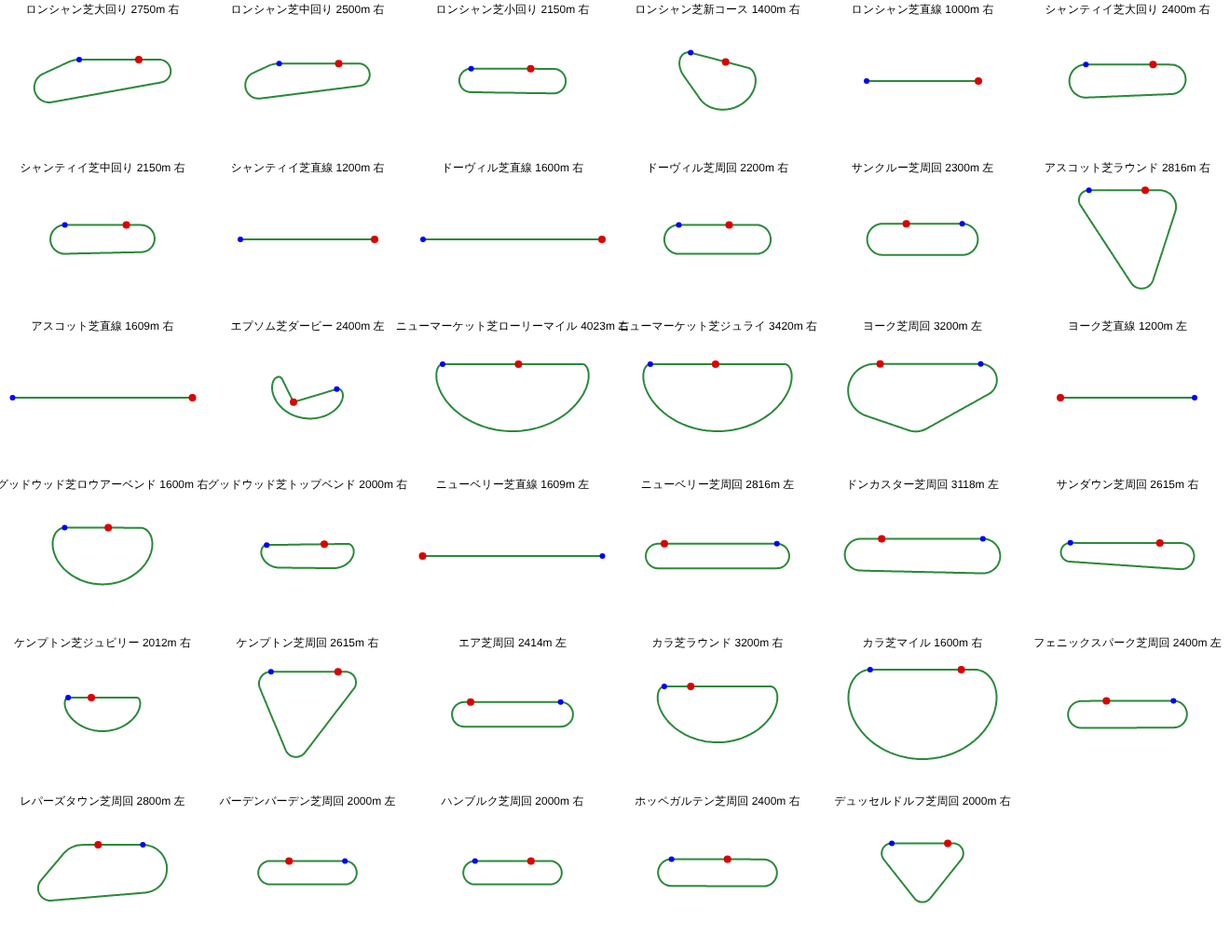
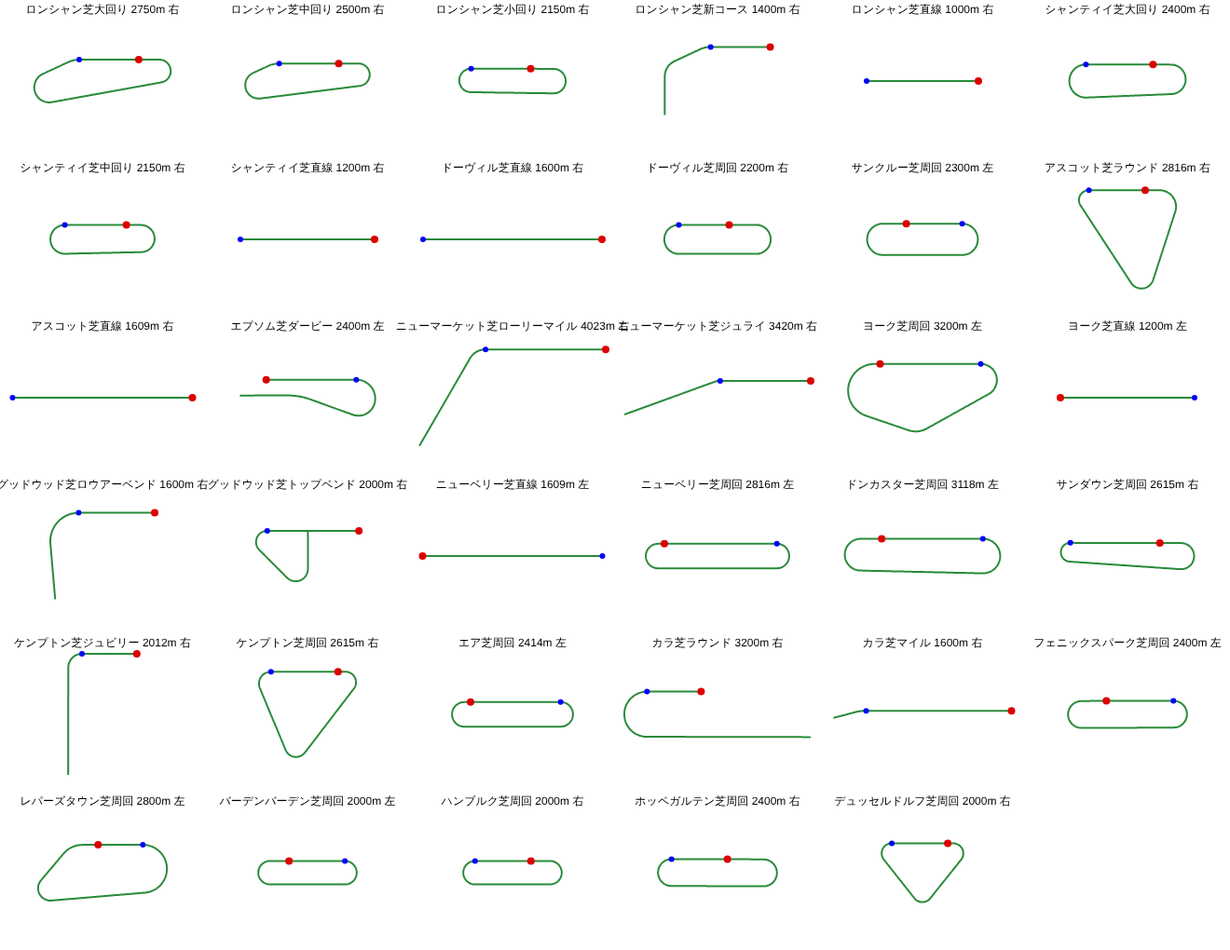
コーナーの半径の読み方を、取り込まれた track.js（角度に沿って直線的に変わる）に戻して全部の形を閉じ直す
親の 30f5e05 を merge したうえで、data/layouts.js とテストを、長さ＝角度×(入口＋出口)/2 の読み方にそろえる。閉じ方の誤差は最大0.04%。
周回しない回り（open）が開いた形で描かれるようになったので、コース図を描き直す。

Claude-Session: https://claude.ai/code/session_019FGFLkgxT7AQ3ZwJ6QJG3S

diff --git a/data/layouts.js b/data/layouts.js
@@ -5,7 +5,7 @@
 //   use：その回りを使うレースの距離（m）。同じ馬場の中で回りどうし重ならない
 //   segs：ゴール板から「走る向きと逆」にたどった順。最初はゴールから最後のコーナーの出口までの直線、最後は1コーナーの入口からゴールまで
 //     ['S', 長さ]：直線　['C', 入口の半径, 出口の半径, 曲がる角度(度), 番号]：コーナー（入口・出口は走る向きで見たもの。番号 3＝3〜4コーナー、1＝1〜2コーナー。負の角度は逆向きの曲がり）
-//     曲がり（1/半径）は長さに沿って入口から出口へ直線的に変わる（長さ＝角度÷((1/入口＋1/出口)/2)。js/core/track.js の fromLayout と同じ）。同じ値なら円、入口が大きければスパイラルカーブ
+//     半径は角度に沿って入口から出口へ直線的に変わる（長さ＝角度×(入口＋出口)/2。js/core/track.js の fromLayout と同じ）。同じ値なら円、入口が大きければスパイラルカーブ
 //   elev：[ゴールまでの残り(m), 高さ(m)]。残り0から lap まで。いちばん低い所が0。点の間は直線でつなぐ
 //   src：確かめた出典　note：特徴　approx：出典で細かく分からない所を、分かる数に合わせて作ったもの
 // JRA の10場：1周・直線・高低差・使う距離は JRA のコース紹介の表、高さは同じページの高低断面図から読んだ（表の高低差とおよそ0.1〜0.2m で合う）。
@@ -34,14 +34,14 @@
     '函館': {
       turf: [
         { id: '周回', lap: 1626.6, straight: 262.1, use: [1000, 1200, 1700, 1800, 2000, 2400, 2600],
-          segs: [['S', 262.1], ['C', 154.8, 134.6, 179.6, 3], ['S', 352.7], ['C', 145.2, 145.2, 180.4, 1], ['S', 103.4]],
+          segs: [['S', 262.1], ['C', 154, 133.9, 179.6, 3], ['S', 352.7], ['C', 145.2, 145.2, 180.4, 1], ['S', 103.4]],
           elev: [[0, 2.3], [116, 2.3], [126, 2.5], [293, 3.4], [363, 3.6], [466, 3.6], [795, 1.5], [941, 1], [1158, 0], [1204, 0], [1410, 0.6], [1580, 2.2], [1626.6, 2.3]],
           src: ['https://www.jra.go.jp/facilities/race/hakodate/course/index.html'],
           note: '3〜4コーナーに小高い丘。直線は全場で最も短い。3、4コーナーはスパイラルカーブ', approx: true },
       ],
       dirt: [
         { id: '周回', lap: 1475.8, straight: 260.3, use: [1000, 1700, 2400],
-          segs: [['S', 260.3], ['C', 130.6, 113.6, 181.1, 3], ['S', 356.5], ['C', 117.8, 117.8, 178.9, 1], ['S', 107.1]],
+          segs: [['S', 260.3], ['C', 129.9, 113, 181.1, 3], ['S', 356.5], ['C', 117.9, 117.9, 178.9, 1], ['S', 107.1]],
           elev: [[0, 2.2], [97, 2.2], [324, 3.5], [420, 3.5], [587, 2.4], [635, 2.1], [714, 1.6], [919, 1], [1016, 0.5], [1031, 0.2], [1068, 0.2], [1086, 0], [1125, 0.2], [1176, 0.2], [1192, 0.5], [1255, 0.6], [1443, 2.2], [1475.8, 2.2]],
           src: ['https://www.jra.go.jp/facilities/race/hakodate/course/index.html'],
           note: '3〜4コーナーに小高い丘。3、4コーナーはスパイラルカーブ', approx: true },
@@ -50,14 +50,14 @@
     '福島': {
       turf: [
         { id: '周回', lap: 1600, straight: 292, use: [1000, 1200, 1700, 1800, 2000, 2400, 2600],
-          segs: [['S', 292], ['C', 176.6, 117.7, 183.2, 3], ['S', 355.9], ['C', 129.5, 129.5, 176.8, 1], ['S', 100.7]],
+          segs: [['S', 292], ['C', 169.3, 112.9, 183.5, 3], ['S', 355.7], ['C', 129.8, 129.8, 176.5, 1], ['S', 100.7]],
           elev: [[0, 1.8], [52, 1.8], [160, 0.7], [190, 0.7], [412, 2.1], [700, 2.1], [906, 1.8], [926, 1.7], [1027, 0.3], [1220, 0], [1296, 0], [1564, 1.8], [1600, 1.8]],
           src: ['https://www.jra.go.jp/facilities/race/fukushima/course/index.html'],
           note: '1周に2回の上り下り。ゴール前に緩い上り（1.2m）。3、4コーナーはスパイラルカーブ', approx: true },
       ],
       dirt: [
         { id: '周回', lap: 1444.6, straight: 295.7, use: [1000, 1150, 1700, 2400],
-          segs: [['S', 295.7], ['C', 142.4, 95.9, 179.4, 3], ['S', 346.6], ['C', 115.6, 115.6, 180.6, 1], ['S', 79.2]],
+          segs: [['S', 295.7], ['C', 136.8, 92.2, 179.6, 3], ['S', 346.5], ['C', 115.7, 115.7, 180.4, 1], ['S', 79.2]],
           elev: [[0, 2.2], [47, 2.1], [248, 1.2], [278, 1.2], [363, 1.9], [647, 1.8], [777, 1.4], [942, 0.5], [1001, 0.4], [1061, 0.2], [1093, 0], [1152, 0.2], [1167, 0.5], [1196, 0.6], [1421, 2.1], [1444.6, 2.2]],
           src: ['https://www.jra.go.jp/facilities/race/fukushima/course/index.html'],
           note: '1周に2回の上り下り。3、4コーナーはスパイラルカーブ', approx: true },
@@ -66,12 +66,12 @@
     '新潟': {
       turf: [
         { id: '外', lap: 2223, straight: 658.7, use: [1600, 1800, 2000, 3000, 3200],
-          segs: [['S', 658.7], ['C', 138.4, 120.4, 180, 3], ['S', 701.2], ['C', 128.8, 128.8, 180, 1], ['S', 54]],
+          segs: [['S', 658.7], ['C', 137.8, 119.8, 180, 3], ['S', 701.2], ['C', 128.8, 128.8, 180, 1], ['S', 54]],
           elev: [[0, 0], [340, 0], [436, 0.5], [585, 0.3], [667, 0.7], [762, 0.6], [994, 2.2], [1016, 2.2], [1030, 2], [1053, 2], [1338, 0.6], [1697, 0.6], [1769, 0.7], [1919, 0.3], [2091, 0.3], [2150, 0.2], [2173, 0], [2223, 0]],
           src: ['https://www.jra.go.jp/facilities/race/niigata/course/index.html'],
           note: '日本最長の直線（658.7m）。3コーナーから4コーナーへ緩い下り。スパイラルカーブ', approx: true },
         { id: '内', lap: 1623, straight: 358.7, use: [1200, 1400, 2200, 2400],
-          segs: [['S', 358.7], ['C', 138.4, 120.4, 180, 3], ['S', 401.2], ['C', 128.7, 128.7, 180, 1], ['S', 54]],
+          segs: [['S', 358.7], ['C', 137.8, 119.8, 180, 3], ['S', 401.2], ['C', 128.8, 128.8, 180, 1], ['S', 54]],
           elev: [[0, 0.1], [338, 0.1], [354, 0.3], [381, 0.3], [397, 0.1], [444, 0], [659, 0.4], [699, 0.6], [1096, 0.6], [1146, 0.8], [1315, 0.4], [1484, 0.4], [1547, 0.3], [1570, 0.1], [1623, 0.1]],
           src: ['https://www.jra.go.jp/facilities/race/niigata/course/index.html'],
           note: 'ほぼ平坦。3、4コーナーはスパイラルカーブ', approx: true },
@@ -83,7 +83,7 @@
       ],
       dirt: [
         { id: '周回', lap: 1472.5, straight: 353.9, use: [1000, 1200, 1700, 1800, 2500],
-          segs: [['S', 353.9], ['C', 111.9, 97.3, 180, 3], ['S', 405.1], ['C', 103.8, 103.8, 180, 1], ['S', 60.4]],
+          segs: [['S', 353.9], ['C', 111.3, 96.8, 180.1, 3], ['S', 405], ['C', 103.8, 103.8, 179.9, 1], ['S', 60.4]],
           elev: [[0, 0], [599, 0], [614, 0.2], [702, 0.5], [900, 0.5], [949, 0.4], [1069, 0.5], [1141, 0.2], [1153, 0], [1472.5, 0]],
           src: ['https://www.jra.go.jp/facilities/race/niigata/course/index.html'],
           note: 'ほぼ平坦。3、4コーナーはスパイラルカーブ', approx: true },
@@ -129,14 +129,14 @@
     '中京': {
       turf: [
         { id: '周回', lap: 1705.9, straight: 412.5, use: [1200, 1300, 1400, 1600, 1700, 1800, 2000, 2200, 2400, 2800, 3000],
-          segs: [['S', 412.5], ['C', 160.5, 128.4, 184.6, 3], ['S', 421.5], ['C', 124.9, 124.9, 175.4, 1], ['S', 30]],
+          segs: [['S', 412.5], ['C', 158.4, 126.7, 184.7, 3], ['S', 421.5], ['C', 125, 125, 175.3, 1], ['S', 30]],
           elev: [[0, 2.3], [241, 2], [338, 0], [956, 3.1], [1061, 3.4], [1106, 3.4], [1479, 2.4], [1705.9, 2.3]],
           src: ['https://www.jra.go.jp/facilities/race/chukyo/course/index.html'],
           note: '直線に向いてすぐの急坂（約2m・勾配約2%）。3、4コーナーはスパイラルカーブ', approx: true },
       ],
       dirt: [
         { id: '周回', lap: 1530, straight: 410.7, use: [1200, 1400, 1700, 1800, 1900, 2000, 2200, 2300, 2500],
-          segs: [['S', 410.7], ['C', 131.5, 105.2, 185, 3], ['S', 418.2], ['C', 97.9, 97.9, 175, 1], ['S', 24.7]],
+          segs: [['S', 410.7], ['C', 129.8, 103.8, 185.1, 3], ['S', 418.2], ['C', 97.9, 97.9, 174.9, 1], ['S', 24.7]],
           elev: [[0, 2.1], [54, 2.2], [218, 1.8], [310, 0.5], [370, 0], [392, 0], [970, 3.3], [1094, 3.1], [1157, 2.6], [1280, 2.1], [1530, 2.1]],
           src: ['https://www.jra.go.jp/facilities/race/chukyo/course/index.html'],
           note: '直線に向いてすぐの急坂。3、4コーナーはスパイラルカーブ', approx: true },
@@ -187,7 +187,7 @@
     '小倉': {
       turf: [
         { id: '周回', lap: 1615.1, straight: 293, use: [1000, 1200, 1700, 1800, 2000, 2600],
-          segs: [['S', 293], ['C', 148.9, 129.5, 179.6, 3], ['S', 364.2], ['C', 139.8, 139.8, 180.4, 1], ['S', 83.4]],
+          segs: [['S', 293], ['C', 148.2, 128.9, 179.6, 3], ['S', 364.2], ['C', 139.8, 139.8, 180.4, 1], ['S', 83.4]],
           elev: [[0, 0], [405, 0], [422, 0.2], [670, 1.3], [749, 1.1], [978, 1.1], [1269, 3.2], [1334, 2.7], [1599, 0.2], [1615.1, 0]],
           src: ['https://www.jra.go.jp/facilities/race/kokura/course/index.html'],
           note: '2コーナーに小高い丘。直線は平坦。3、4コーナーはスパイラルカーブ', approx: true },
@@ -227,12 +227,12 @@
     '船橋': {
       dirt: [
         { id: '外', lap: 1400, straight: 308, use: [1000, 1200, 1500, 1600, 1700, 1800, 2000, 2200, 2400],
-          segs: [['S', 308], ['C', 119.5, 97.8, 180, 3], ['S', 362], ['C', 119.5, 97.8, 180, 1], ['S', 54]],
+          segs: [['S', 308], ['C', 118.3, 96.8, 180, 3], ['S', 362], ['C', 118.3, 96.8, 180, 1], ['S', 54]],
           elev: [[0, 0], [1400, 0]],
           src: ['https://www.keiba.go.jp/guide/course/', 'https://ja.wikipedia.org/wiki/%E8%88%B9%E6%A9%8B%E7%AB%B6%E9%A6%AC%E5%A0%B4'],
           note: 'スパイラルカーブ（コーナーの内外に高低差）。平坦', approx: true },
         { id: '内', lap: 1250, straight: 308, use: [1400],
-          segs: [['S', 308], ['C', 93, 76.1, 180, 3], ['S', 362], ['C', 93, 76.1, 180, 1], ['S', 54]],
+          segs: [['S', 308], ['C', 92.1, 75.3, 180, 3], ['S', 362], ['C', 92.1, 75.3, 180, 1], ['S', 54]],
           elev: [[0, 0], [1250, 0]],
           src: ['https://www.keiba.go.jp/guide/course/', 'https://ja.wikipedia.org/wiki/%E8%88%B9%E6%A9%8B%E7%AB%B6%E9%A6%AC%E5%A0%B4'],
           note: '内コース。いまはレースで使っていない', approx: true },
@@ -266,7 +266,7 @@
     '名古屋': {
       dirt: [
         { id: '周回', lap: 1180, straight: 240, use: [900, 920, 1400, 1500, 1700, 1900, 2000, 2100],
-          segs: [['S', 240], ['C', 107.5, 84.5, 179.9, 3], ['S', 285.6], ['C', 94.6, 94.6, 180.1, 1], ['S', 60]],
+          segs: [['S', 240], ['C', 105.9, 83.3, 180, 3], ['S', 285.6], ['C', 94.6, 94.6, 180, 1], ['S', 60]],
           elev: [[0, 0], [164, 0], [388, 0.3], [607, 0], [752, 0], [831, 0.2], [912, 0], [1180, 0]],
           src: ['https://www.keiba.go.jp/guide/course/', 'https://ja.wikipedia.org/wiki/%E5%90%8D%E5%8F%A4%E5%B1%8B%E7%AB%B6%E9%A6%AC%E5%A0%B4', 'https://www.nagoyakeiba.com/news/5c50174720d00f5e58bb8d04b06dc58f.pdf'],
           note: '2022年に弥富へ移ったいまのコース。3〜4コーナーはスパイラルカーブ。ほぼ平坦', approx: true },
@@ -307,7 +307,7 @@
     '浦和': {
       dirt: [
         { id: '周回', lap: 1200, straight: 220, use: [800, 1300, 1400, 1500, 1600, 1900, 2000],
-          segs: [['S', 220], ['C', 108.3, 88.6, 179.9, 3], ['S', 287.6], ['C', 97.4, 97.4, 180.1, 1], ['S', 80]],
+          segs: [['S', 220], ['C', 107.2, 87.7, 180, 3], ['S', 287.6], ['C', 97.5, 97.5, 180, 1], ['S', 80]],
           elev: [[0, 0], [1200, 0]],
           src: ['https://www.keiba.go.jp/guide/course/', 'https://ja.wikipedia.org/wiki/%E6%B5%A6%E5%92%8C%E7%AB%B6%E9%A6%AC%E5%A0%B4', 'https://www.urawa-keiba.jp/guide/course_paddock/'],
           note: '小回り。3コーナーはスパイラルカーブ。平坦', approx: true },
@@ -708,7 +708,7 @@
     'ウッドバイン': {
       turf: [
         { id: 'EPテイラー', lap: 2413.5, straight: 438.9, use: [1600, 2000, 2400],
-          segs: [['S', 438.9], ['C', 222.1, 133.4, 184, 3], ['S', 746], ['C', 102.1, 102.1, 150, 2], ['S', 142.5], ['C', 184, 184, 26, 1], ['S', 200]],
+          segs: [['S', 438.9], ['C', 207.8, 124.7, 184.3, 3], ['S', 746.5], ['C', 102.1, 102.1, 150, 2], ['S', 142.5], ['C', 186.4, 186.4, 25.7, 1], ['S', 200]],
           elev: [[0, 0], [438.9, 0], [941.4, 0.8], [1741.4, 0.8], [1992.5, 0], [2413.5, 0]],
           src: ['https://en.wikipedia.org/wiki/Woodbine_Racetrack', 'https://www.drf.com/sites/default/files/US%20Track%20Dimensions%20List%20-%20May%202015.pdf', 'https://www.jairs.jp/contents/courses/can.html', 'https://ja.wikipedia.org/wiki/%E3%82%A6%E3%83%83%E3%83%89%E3%83%90%E3%82%A4%E3%83%B3%E7%AB%B6%E9%A6%AC%E5%A0%B4'],
           note: '左回りの3コーナーの芝（30度→短い直線→150度）。北米最長の直線1440フィート。向正面がホーム直線より0.8〜0.9m高い', approx: true },
@@ -749,7 +749,7 @@
     'フレミントン': {
       turf: [
         { id: '周回', lap: 2312, straight: 450, use: [3200],
-          segs: [['S', 450], ['C', 296.8, 229.3, 196.9, 3], ['S', 413.5], ['C', 192.3, 192.3, 163.1, 1], ['S', 12]],
+          segs: [['S', 450], ['C', 291.6, 225.3, 197.1, 3], ['S', 413.5], ['C', 192.5, 192.5, 162.9, 1], ['S', 12]],
           elev: [[0, 0], [2312, 0]],
           src: ['https://www.jra.go.jp/keiba/overseas/country/australia/flemington.html', 'https://www.jairs.jp/contents/courses/au.html', 'https://en.wikipedia.org/wiki/Flemington_Racecourse'],
           note: '洋梨型。3〜4コーナーのゆったりしたカーブ。ほぼ平坦。3200mはストレート6の上から発走し最初のコーナーまで約900m', approx: true },

diff --git a/docs/COURSES.md b/docs/COURSES.md
@@ -36,28 +36,28 @@
 |---|---|---|---|---|---|---|---|---|---|
 | 札幌 | 芝 | 周回 | 1640.9 | 266.1 | 0.7 | 165.1・158.1 | 1000・1200・1500・1800・2000・2600 | ほぼ平坦。4つのコーナーが大きく丸い（目安あり） | [1](https://www.jra.go.jp/facilities/race/sapporo/course/index.html) |
 | 札幌 | ダ | 周回 | 1487 | 264.3 | 0.9 | 140.9・140.7 | 1000・1200・1700・2000・2400 | ほぼ平坦。丸いコース（目安あり） | [1](https://www.jra.go.jp/facilities/race/sapporo/course/index.html) |
-| 函館 | 芝 | 周回 | 1626.6 | 262.1 | 3.6 | 154.8→134.6・145.2 | 1000・1200・1700・1800・2000・2400・2600 | 3〜4コーナーに小高い丘。直線は全場で最も短い。3、4コーナーはスパイラルカーブ（目安あり） | [1](https://www.jra.go.jp/facilities/race/hakodate/course/index.html) |
-| 函館 | ダ | 周回 | 1475.8 | 260.3 | 3.5 | 130.6→113.6・117.8 | 1000・1700・2400 | 3〜4コーナーに小高い丘。3、4コーナーはスパイラルカーブ（目安あり） | [1](https://www.jra.go.jp/facilities/race/hakodate/course/index.html) |
-| 福島 | 芝 | 周回 | 1600 | 292 | 2.1 | 176.6→117.7・129.5 | 1000・1200・1700・1800・2000・2400・2600 | 1周に2回の上り下り。ゴール前に緩い上り（1.2m）。3、4コーナーはスパイラルカーブ（目安あり） | [1](https://www.jra.go.jp/facilities/race/fukushima/course/index.html) |
-| 福島 | ダ | 周回 | 1444.6 | 295.7 | 2.2 | 142.4→95.9・115.6 | 1000・1150・1700・2400 | 1周に2回の上り下り。3、4コーナーはスパイラルカーブ（目安あり） | [1](https://www.jra.go.jp/facilities/race/fukushima/course/index.html) |
-| 新潟 | 芝 | 外 | 2223 | 658.7 | 2.2 | 138.4→120.4・128.8 | 1600・1800・2000・3000・3200 | 日本最長の直線（658.7m）。3コーナーから4コーナーへ緩い下り。スパイラルカーブ（目安あり） | [1](https://www.jra.go.jp/facilities/race/niigata/course/index.html) |
-| 新潟 | 芝 | 内 | 1623 | 358.7 | 0.8 | 138.4→120.4・128.7 | 1200・1400・2200・2400 | ほぼ平坦。3、4コーナーはスパイラルカーブ（目安あり） | [1](https://www.jra.go.jp/facilities/race/niigata/course/index.html) |
+| 函館 | 芝 | 周回 | 1626.6 | 262.1 | 3.6 | 154→133.9・145.2 | 1000・1200・1700・1800・2000・2400・2600 | 3〜4コーナーに小高い丘。直線は全場で最も短い。3、4コーナーはスパイラルカーブ（目安あり） | [1](https://www.jra.go.jp/facilities/race/hakodate/course/index.html) |
+| 函館 | ダ | 周回 | 1475.8 | 260.3 | 3.5 | 129.9→113・117.9 | 1000・1700・2400 | 3〜4コーナーに小高い丘。3、4コーナーはスパイラルカーブ（目安あり） | [1](https://www.jra.go.jp/facilities/race/hakodate/course/index.html) |
+| 福島 | 芝 | 周回 | 1600 | 292 | 2.1 | 169.3→112.9・129.8 | 1000・1200・1700・1800・2000・2400・2600 | 1周に2回の上り下り。ゴール前に緩い上り（1.2m）。3、4コーナーはスパイラルカーブ（目安あり） | [1](https://www.jra.go.jp/facilities/race/fukushima/course/index.html) |
+| 福島 | ダ | 周回 | 1444.6 | 295.7 | 2.2 | 136.8→92.2・115.7 | 1000・1150・1700・2400 | 1周に2回の上り下り。3、4コーナーはスパイラルカーブ（目安あり） | [1](https://www.jra.go.jp/facilities/race/fukushima/course/index.html) |
+| 新潟 | 芝 | 外 | 2223 | 658.7 | 2.2 | 137.8→119.8・128.8 | 1600・1800・2000・3000・3200 | 日本最長の直線（658.7m）。3コーナーから4コーナーへ緩い下り。スパイラルカーブ（目安あり） | [1](https://www.jra.go.jp/facilities/race/niigata/course/index.html) |
+| 新潟 | 芝 | 内 | 1623 | 358.7 | 0.8 | 137.8→119.8・128.8 | 1200・1400・2200・2400 | ほぼ平坦。3、4コーナーはスパイラルカーブ（目安あり） | [1](https://www.jra.go.jp/facilities/race/niigata/course/index.html) |
 | 新潟 | 芝 | 直線 | 1000 | 1000 | 1.2 | — | 1000 | 直線1000m（直千）。日本で唯一の直線コース（目安あり） | [1](https://www.jra.go.jp/facilities/race/niigata/course/index.html) |
-| 新潟 | ダ | 周回 | 1472.5 | 353.9 | 0.5 | 111.9→97.3・103.8 | 1000・1200・1700・1800・2500 | ほぼ平坦。3、4コーナーはスパイラルカーブ（目安あり） | [1](https://www.jra.go.jp/facilities/race/niigata/course/index.html) |
+| 新潟 | ダ | 周回 | 1472.5 | 353.9 | 0.5 | 111.3→96.8・103.8 | 1000・1200・1700・1800・2500 | ほぼ平坦。3、4コーナーはスパイラルカーブ（目安あり） | [1](https://www.jra.go.jp/facilities/race/niigata/course/index.html) |
 | 東京 | 芝 | 周回 | 2083.1 | 525.9 | 2.7 | 138.5・140.8 | 1400・1600・1800・2000・2200・2300・2400・2500・2600・3200・3400 | 直線の坂（残り460〜300m・高低差2m）と3コーナー手前の上り坂。コーナーはゆったり（目安あり） | [1](https://www.jra.go.jp/facilities/race/tokyo/course/index.html) |
 | 東京 | ダ | 周回 | 1899 | 501.6 | 2.7 | 125.1・125.9 | 1200・1300・1400・1600・1700・2100・2300・2400 | 日本最大のダート。直線の坂（高低差2.4m）と向正面の坂（目安あり） | [1](https://www.jra.go.jp/facilities/race/tokyo/course/index.html) |
 | 中山 | 芝 | 内 | 1667.1 | 310 | 5.3 | 143.2・142 | 1800・2000・2500・3200・3600 | ゴール前の急坂（残り180〜70m・2.2m）。2コーナーの手前が頂上で高低差5.3m。2・3コーナーがきつい小回り（目安あり） | [1](https://www.jra.go.jp/facilities/race/nakayama/course/index.html) |
 | 中山 | 芝 | 外 | 1839.7 | 310 | 5.2 | 165.8・169.5 | 1200・1600・2200・2400・2600・4000 | ゴール前の急坂（残り180〜70m・2.2m）。2コーナーから長い下り。高低差5.3m（目安あり） | [1](https://www.jra.go.jp/facilities/race/nakayama/course/index.html) |
 | 中山 | ダ | 周回 | 1493 | 308 | 4.3 | 118.8・117.7 | 1000・1200・1700・1800・2400・2500 | ゴール前の急坂。高低差4.5m（目安あり） | [1](https://www.jra.go.jp/facilities/race/nakayama/course/index.html) |
-| 中京 | 芝 | 周回 | 1705.9 | 412.5 | 3.4 | 160.5→128.4・124.9 | 1200・1300・1400・1600・1700・1800・2000・2200・2400・2800・3000 | 直線に向いてすぐの急坂（約2m・勾配約2%）。3、4コーナーはスパイラルカーブ（目安あり） | [1](https://www.jra.go.jp/facilities/race/chukyo/course/index.html) |
-| 中京 | ダ | 周回 | 1530 | 410.7 | 3.3 | 131.5→105.2・97.9 | 1200・1400・1700・1800・1900・2000・2200・2300・2500 | 直線に向いてすぐの急坂。3、4コーナーはスパイラルカーブ（目安あり） | [1](https://www.jra.go.jp/facilities/race/chukyo/course/index.html) |
+| 中京 | 芝 | 周回 | 1705.9 | 412.5 | 3.4 | 158.4→126.7・125 | 1200・1300・1400・1600・1700・1800・2000・2200・2400・2800・3000 | 直線に向いてすぐの急坂（約2m・勾配約2%）。3、4コーナーはスパイラルカーブ（目安あり） | [1](https://www.jra.go.jp/facilities/race/chukyo/course/index.html) |
+| 中京 | ダ | 周回 | 1530 | 410.7 | 3.3 | 129.8→103.8・97.9 | 1200・1400・1700・1800・1900・2000・2200・2300・2500 | 直線に向いてすぐの急坂。3、4コーナーはスパイラルカーブ（目安あり） | [1](https://www.jra.go.jp/facilities/race/chukyo/course/index.html) |
 | 京都 | 芝 | 外 | 1894.3 | 403.7 | 4.2 | 156.5・134.1 | 1400・1600・1800・1900・2200・2400・3000・3200 | 3コーナーの坂（淀の坂）。向正面の半ばから上り、4コーナーへ一気に下る。高低差4.3m（目安あり） | [1](https://www.jra.go.jp/facilities/race/kyoto/course/index.html) |
 | 京都 | 芝 | 内 | 1782.8 | 328.4 | 3.2 | 165.9・136.4 | 1100・1200・2000 | 3コーナーの坂（高低差3.1m）。3、4コーナーがきつい（目安あり） | [1](https://www.jra.go.jp/facilities/race/kyoto/course/index.html) |
 | 京都 | ダ | 周回 | 1607.6 | 329.1 | 2.9 | 139.8・103.6 | 1000・1100・1200・1400・1800・1900・2600 | 3コーナーの丘から4コーナーへ下り、平坦な直線（目安あり） | [1](https://www.jra.go.jp/facilities/race/kyoto/course/index.html) |
 | 阪神 | 芝 | 外 | 2089 | 473.6 | 2.1 | 200.9・135 | 1600・1800・2400・2600 | 長い向正面と大きな3、4コーナー。ゴール前の急坂（1.8m・勾配1.5%）（目安あり） | [1](https://www.jra.go.jp/facilities/race/hanshin/course/index.html) |
 | 阪神 | 芝 | 内 | 1689 | 356.5 | 1.8 | 157.5・129.8 | 1200・1400・1850・1900・2000・2200・2500・3000・3100・3200 | ゴール前の急坂（1.8m・勾配1.5%）（目安あり） | [1](https://www.jra.go.jp/facilities/race/hanshin/course/index.html) |
 | 阪神 | ダ | 周回 | 1517.6 | 352.7 | 1.3 | 145.3・94.5 | 1200・1400・1800・2000・2600 | 残り200mに上り坂（1.6m）（目安あり） | [1](https://www.jra.go.jp/facilities/race/hanshin/course/index.html) |
-| 小倉 | 芝 | 周回 | 1615.1 | 293 | 3.2 | 148.9→129.5・139.8 | 1000・1200・1700・1800・2000・2600 | 2コーナーに小高い丘。直線は平坦。3、4コーナーはスパイラルカーブ（目安あり） | [1](https://www.jra.go.jp/facilities/race/kokura/course/index.html) |
+| 小倉 | 芝 | 周回 | 1615.1 | 293 | 3.2 | 148.2→128.9・139.8 | 1000・1200・1700・1800・2000・2600 | 2コーナーに小高い丘。直線は平坦。3、4コーナーはスパイラルカーブ（目安あり） | [1](https://www.jra.go.jp/facilities/race/kokura/course/index.html) |
 | 小倉 | ダ | 周回 | 1445.4 | 291.3 | 2.9 | 108.5・106.9 | 1000・1700・2400 | 2コーナーに丘。残り400mから直線へ緩い上り（0.6m）（目安あり） | [1](https://www.jra.go.jp/facilities/race/kokura/course/index.html) |
 
 ## 地方
@@ -67,17 +67,17 @@
 | 大井 | ダ | 外 | 1600 | 386 | 0.0 | 99.9・99.9 | 1000・1190・1200・1400・1700・1800・2000・2400・2600・2800 | 外回り。地方でいちばん長い直線。平坦（目安あり） | [1](https://www.keiba.go.jp/guide/course/) [2](https://ja.wikipedia.org/wiki/%E5%A4%A7%E4%BA%95%E7%AB%B6%E9%A6%AC%E5%A0%B4) [3](https://ja.wikipedia.org/wiki/%E6%9D%B1%E4%BA%AC%E7%9B%83) |
 | 大井 | ダ | 内 | 1400 | 286 | 0.0 | 99.9・99.9 | 1500・1600 | 内回り（3〜4コーナーだけ内側を回る）。平坦（目安あり） | [1](https://www.keiba.go.jp/guide/course/) [2](https://ja.wikipedia.org/wiki/%E5%A4%A7%E4%BA%95%E7%AB%B6%E9%A6%AC%E5%A0%B4) |
 | 川崎 | ダ | 周回 | 1200 | 300 | 0.0 | 63.7・63.7 | 900・1400・1500・1600・2000・2100 | 小さく急なコーナー。平坦（目安あり） | [1](https://www.keiba.go.jp/guide/course/) [2](https://ja.wikipedia.org/wiki/%E5%B7%9D%E5%B4%8E%E7%AB%B6%E9%A6%AC%E5%A0%B4) |
-| 船橋 | ダ | 外 | 1400 | 308 | 0.0 | 119.5→97.8・119.5→97.8 | 1000・1200・1500・1600・1700・1800・2000・2200・2400 | スパイラルカーブ（コーナーの内外に高低差）。平坦（目安あり） | [1](https://www.keiba.go.jp/guide/course/) [2](https://ja.wikipedia.org/wiki/%E8%88%B9%E6%A9%8B%E7%AB%B6%E9%A6%AC%E5%A0%B4) |
-| 船橋 | ダ | 内 | 1250 | 308 | 0.0 | 93→76.1・93→76.1 | 1400 | 内コース。いまはレースで使っていない（目安あり） | [1](https://www.keiba.go.jp/guide/course/) [2](https://ja.wikipedia.org/wiki/%E8%88%B9%E6%A9%8B%E7%AB%B6%E9%A6%AC%E5%A0%B4) |
+| 船橋 | ダ | 外 | 1400 | 308 | 0.0 | 118.3→96.8・118.3→96.8 | 1000・1200・1500・1600・1700・1800・2000・2200・2400 | スパイラルカーブ（コーナーの内外に高低差）。平坦（目安あり） | [1](https://www.keiba.go.jp/guide/course/) [2](https://ja.wikipedia.org/wiki/%E8%88%B9%E6%A9%8B%E7%AB%B6%E9%A6%AC%E5%A0%B4) |
+| 船橋 | ダ | 内 | 1250 | 308 | 0.0 | 92.1→75.3・92.1→75.3 | 1400 | 内コース。いまはレースで使っていない（目安あり） | [1](https://www.keiba.go.jp/guide/course/) [2](https://ja.wikipedia.org/wiki/%E8%88%B9%E6%A9%8B%E7%AB%B6%E9%A6%AC%E5%A0%B4) |
 | 盛岡 | 芝 | 周回 | 1400 | 300 | 4.6 | 95.5・95.5 | 1000・1600・1700・2400 | 地方で唯一の芝コース（ダートの内側）。直線の上り坂。高低差4.6m | [1](https://www.keiba.go.jp/guide/course/) [2](https://ja.wikipedia.org/wiki/%E7%9B%9B%E5%B2%A1%E7%AB%B6%E9%A6%AC%E5%A0%B4) [3](https://www.iwatekeiba.or.jp/guide/moriokakeiba/oro_01) [4](https://www.iwatekeiba.or.jp/guide/moriokakeiba/oro_06) |
 | 盛岡 | ダ | 周回 | 1600 | 300 | 4.4 | 127.3・127.3 | 1000・1200・1400・1600・1800・2000・2500・2600 | 3コーナーが頂上で4コーナーへ下り、直線は上り坂。高低差4.4m | [1](https://www.keiba.go.jp/guide/course/) [2](https://ja.wikipedia.org/wiki/%E7%9B%9B%E5%B2%A1%E7%AB%B6%E9%A6%AC%E5%A0%B4) [3](https://www.iwatekeiba.or.jp/guide/moriokakeiba/oro_01) [4](https://www.iwatekeiba.or.jp/guide/moriokakeiba/oro_06) |
 | 園田 | ダ | 周回 | 1051 | 213 | 1.2 | 94・87 | 820・1230・1400・1700・1870・2400 | 小回り。向正面から3コーナーへ1.2mの上り。3〜4コーナーが1〜2コーナーより大きい（目安あり） | [1](https://www.keiba.go.jp/guide/course/) [2](https://ja.wikipedia.org/wiki/%E5%9C%92%E7%94%B0%E7%AB%B6%E9%A6%AC%E5%A0%B4) |
-| 名古屋 | ダ | 周回 | 1180 | 240 | 0.3 | 107.5→84.5・94.6 | 900・920・1400・1500・1700・1900・2000・2100 | 2022年に弥富へ移ったいまのコース。3〜4コーナーはスパイラルカーブ。ほぼ平坦（目安あり） | [1](https://www.keiba.go.jp/guide/course/) [2](https://ja.wikipedia.org/wiki/%E5%90%8D%E5%8F%A4%E5%B1%8B%E7%AB%B6%E9%A6%AC%E5%A0%B4) [3](https://www.nagoyakeiba.com/news/5c50174720d00f5e58bb8d04b06dc58f.pdf) |
+| 名古屋 | ダ | 周回 | 1180 | 240 | 0.3 | 105.9→83.3・94.6 | 900・920・1400・1500・1700・1900・2000・2100 | 2022年に弥富へ移ったいまのコース。3〜4コーナーはスパイラルカーブ。ほぼ平坦（目安あり） | [1](https://www.keiba.go.jp/guide/course/) [2](https://ja.wikipedia.org/wiki/%E5%90%8D%E5%8F%A4%E5%B1%8B%E7%AB%B6%E9%A6%AC%E5%A0%B4) [3](https://www.nagoyakeiba.com/news/5c50174720d00f5e58bb8d04b06dc58f.pdf) |
 | 門別 | ダ | 外 | 1600 | 330 | 0.0 | 127.3・127.3 | 1000・1100・1200・1700・1800・2000・2600 | 外回り。直線は大井に次ぐ長さで、カーブがゆるい（目安あり） | [1](https://www.keiba.go.jp/guide/course/) [2](https://ja.wikipedia.org/wiki/%E9%96%80%E5%88%A5%E7%AB%B6%E9%A6%AC%E5%A0%B4) |
 | 門別 | ダ | 内 | 1376 | 218 | 0.0 | 127.3・127.3 | 1500・1600 | 2015年にできた内回り（3コーナー手前から分かれる）（目安あり） | [1](https://www.keiba.go.jp/guide/course/) [2](https://ja.wikipedia.org/wiki/%E9%96%80%E5%88%A5%E7%AB%B6%E9%A6%AC%E5%A0%B4) |
 | 金沢 | ダ | 周回 | 1200 | 236 | 0.0 | 99.9・99.9 | 900・1300・1400・1500・1700・1900・2000・2100・2300・2600 | 4つのコーナーすべてにポケット（発走地点）がある。平坦（目安あり） | [1](https://www.keiba.go.jp/guide/course/) [2](https://ja.wikipedia.org/wiki/%E9%87%91%E6%B2%A2%E7%AB%B6%E9%A6%AC%E5%A0%B4) |
 | 佐賀 | ダ | 周回 | 1100 | 200 | 0.0 | 95.5・95.5 | 900・1300・1400・1750・1800・1860・2000・2400・2500 | 粒の大きい砂で力の要るダート。ほぼ平坦（目安あり） | [1](https://www.keiba.go.jp/guide/course/) [2](https://ja.wikipedia.org/wiki/%E4%BD%90%E8%B3%80%E7%AB%B6%E9%A6%AC%E5%A0%B4) [3](https://www.sagakeiba.net/raceinfo/course/) |
-| 浦和 | ダ | 周回 | 1200 | 220 | 0.0 | 108.3→88.6・97.4 | 800・1300・1400・1500・1600・1900・2000 | 小回り。3コーナーはスパイラルカーブ。平坦（目安あり） | [1](https://www.keiba.go.jp/guide/course/) [2](https://ja.wikipedia.org/wiki/%E6%B5%A6%E5%92%8C%E7%AB%B6%E9%A6%AC%E5%A0%B4) [3](https://www.urawa-keiba.jp/guide/course_paddock/) |
+| 浦和 | ダ | 周回 | 1200 | 220 | 0.0 | 107.2→87.7・97.5 | 800・1300・1400・1500・1600・1900・2000 | 小回り。3コーナーはスパイラルカーブ。平坦（目安あり） | [1](https://www.keiba.go.jp/guide/course/) [2](https://ja.wikipedia.org/wiki/%E6%B5%A6%E5%92%8C%E7%AB%B6%E9%A6%AC%E5%A0%B4) [3](https://www.urawa-keiba.jp/guide/course_paddock/) |
 | 笠松 | ダ | 周回 | 1100 | 201 | 0.0 | 99.3・99.3 | 800・1400・1580・1800・1900・2500 | 小回りでコーナーからの追い込みが難しい（目安あり） | [1](https://www.keiba.go.jp/guide/course/) [2](https://ja.wikipedia.org/wiki/%E7%AC%A0%E6%9D%BE%E7%AB%B6%E9%A6%AC%E5%A0%B4) [3](https://www.kasamatsu-keiba.com/courseinfo) |
 | 高知 | ダ | 周回 | 1100 | 200 | 0.0 | 109.5・93.6 | 800・1000・1300・1400・1600・1800・1900・2100・2400 | 1〜2コーナーが3〜4コーナーより小さい（きつい）（目安あり） | [1](https://www.keiba.go.jp/guide/course/) [2](https://ja.wikipedia.org/wiki/%E9%AB%98%E7%9F%A5%E7%AB%B6%E9%A6%AC%E5%A0%B4) |
 | 水沢 | ダ | 周回 | 1200 | 245 | 0.0 | 90.1・90.1 | 850・1300・1400・1600・1800・1900・2000・2500 | 平坦な小回り（目安あり） | [1](https://www.keiba.go.jp/guide/course/) [2](https://ja.wikipedia.org/wiki/%E6%B0%B4%E6%B2%A2%E7%AB%B6%E9%A6%AC%E5%A0%B4) [3](https://www.iwatekeiba.or.jp/mizu_01) |
@@ -134,12 +134,12 @@
 | コロニアルダウンズ | 芝 | 外 | 1809 | 393.3 | 0.0 | 126.3・126.3 | 2000 | セクレタリアトターフ（9ハロン・幅180フィート）（目安あり） | [1](https://en.wikipedia.org/wiki/Colonial_Downs) [2](https://ja.wikipedia.org/wiki/%E3%82%B3%E3%83%AD%E3%83%8B%E3%82%A2%E3%83%AB%E3%83%80%E3%82%A6%E3%83%B3%E3%82%BA%E7%AB%B6%E9%A6%AC%E5%A0%B4) |
 | コロニアルダウンズ | 芝 | 内 | 1507.5 | 393.3 | 0.0 | 78.4・78.4 |  | 内の芝（7.5ハロン）（目安あり） | [1](https://en.wikipedia.org/wiki/Colonial_Downs) |
 | コロニアルダウンズ | ダ | 周回 | 2011 | 393.3 | 0.0 | 158.5・158.5 |  | 1マイル1/4の楕円。直線1290.5フィート（目安あり） | [1](https://www.worldcasinodirectory.com/casino/colonial-downs-3121) [2](https://en.wikipedia.org/wiki/Colonial_Downs) |
-| ウッドバイン | 芝 | EPテイラー | 2413.5 | 438.9 | 0.8 | 222.1→133.4・102.1・184 | 1600・2000・2400 | 左回りの3コーナーの芝（30度→短い直線→150度）。北米最長の直線1440フィート。向正面がホーム直線より0.8〜0.9m高い（目安あり） | [1](https://en.wikipedia.org/wiki/Woodbine_Racetrack) [2](https://www.drf.com/sites/default/files/US%20Track%20Dimensions%20List%20-%20May%202015.pdf) [3](https://www.jairs.jp/contents/courses/can.html) [4](https://ja.wikipedia.org/wiki/%E3%82%A6%E3%83%83%E3%83%89%E3%83%90%E3%82%A4%E3%83%B3%E7%AB%B6%E9%A6%AC%E5%A0%B4) |
+| ウッドバイン | 芝 | EPテイラー | 2413.5 | 438.9 | 0.8 | 207.8→124.7・102.1・186.4 | 1600・2000・2400 | 左回りの3コーナーの芝（30度→短い直線→150度）。北米最長の直線1440フィート。向正面がホーム直線より0.8〜0.9m高い（目安あり） | [1](https://en.wikipedia.org/wiki/Woodbine_Racetrack) [2](https://www.drf.com/sites/default/files/US%20Track%20Dimensions%20List%20-%20May%202015.pdf) [3](https://www.jairs.jp/contents/courses/can.html) [4](https://ja.wikipedia.org/wiki/%E3%82%A6%E3%83%83%E3%83%89%E3%83%90%E3%82%A4%E3%83%B3%E7%AB%B6%E9%A6%AC%E5%A0%B4) |
 | ウッドバイン | ダ | 周回 | 1609 | 297.2 | 0.0 | 128・128 | 1200・1700・1800・2000 | 1マイルの楕円（2006年からオールウェザー。今はタペタ）。直線975フィート（目安あり） | [1](https://www.drf.com/sites/default/files/US%20Track%20Dimensions%20List%20-%20May%202015.pdf) [2](https://en.wikipedia.org/wiki/Woodbine_Racetrack) [3](https://www.jairs.jp/contents/courses/can.html) |
 | キングアブドゥルアジーズ | 芝 | 周回 | 1800 | 438 | 0.0 | 98.2・98.2 | 2100 | ダートの内側の芝（2020年から）。幅21m（目安あり） | [1](https://www.jairs.jp/contents/courses/saudi.html) [2](https://en.wikipedia.org/wiki/King_Abdulaziz_Racetrack) [3](https://ja.wikipedia.org/wiki/%E3%82%AD%E3%83%B3%E3%82%B0%E3%82%A2%E3%83%96%E3%83%89%E3%82%A5%E3%83%AB%E3%82%A2%E3%82%B8%E3%83%BC%E3%82%BA%E7%AB%B6%E9%A6%AC%E5%A0%B4) |
 | キングアブドゥルアジーズ | ダ | 周回 | 2000 | 500 | 0.0 | 130・130 | 1800 | 1周2000mの楕円。450mのシュート。幅24〜25m（目安あり） | [1](https://www.jairs.jp/contents/courses/saudi.html) [2](https://en.wikipedia.org/wiki/King_Abdulaziz_Racetrack) [3](https://ja.wikipedia.org/wiki/%E3%82%AD%E3%83%B3%E3%82%B0%E3%82%A2%E3%83%96%E3%83%89%E3%82%A5%E3%83%AB%E3%82%A2%E3%82%B8%E3%83%BC%E3%82%BA%E7%AB%B6%E9%A6%AC%E5%A0%B4) |
 | ムーニーバレー | 芝 | 周回 | 1805 | 173 | 5.0 | 100・100・100・100 | 1900・2040 | 縦長の長方形。直線173mと豪州一短い。コーナーに7.5度のバンク。高低差約5m（スタンド側が高い）。2027年からは新コース（目安あり） | [1](https://www.jra.go.jp/keiba/overseas/country/australia/mooneevalley.html) [2](https://www.jairs.jp/contents/courses/au.html) [3](https://ja.wikipedia.org/wiki/%E3%83%A0%E3%83%BC%E3%83%8B%E3%83%BC%E3%83%B4%E3%82%A1%E3%83%AC%E3%83%BC%E7%AB%B6%E9%A6%AC%E5%A0%B4) |
-| フレミントン | 芝 | 周回 | 2312 | 450 | 0.0 | 296.8→229.3・192.3 | 3200 | 洋梨型。3〜4コーナーのゆったりしたカーブ。ほぼ平坦。3200mはストレート6の上から発走し最初のコーナーまで約900m（目安あり） | [1](https://www.jra.go.jp/keiba/overseas/country/australia/flemington.html) [2](https://www.jairs.jp/contents/courses/au.html) [3](https://en.wikipedia.org/wiki/Flemington_Racecourse) |
+| フレミントン | 芝 | 周回 | 2312 | 450 | 0.0 | 291.6→225.3・192.5 | 3200 | 洋梨型。3〜4コーナーのゆったりしたカーブ。ほぼ平坦。3200mはストレート6の上から発走し最初のコーナーまで約900m（目安あり） | [1](https://www.jra.go.jp/keiba/overseas/country/australia/flemington.html) [2](https://www.jairs.jp/contents/courses/au.html) [3](https://en.wikipedia.org/wiki/Flemington_Racecourse) |
 | フレミントン | 芝 | 直線 | 1200 | 1200 | 0.0 | — |  | ストレート6（直線1200m）（目安あり） | [1](https://www.jra.go.jp/keiba/overseas/country/australia/flemington.html) [2](https://en.wikipedia.org/wiki/Flemington_Racecourse) |
 | ランドウィック | 芝 | 周回 | 2224 | 410 | 1.0 | 120・120・120・120 | 1600 | 四角い右回り。直線に緩い上り（ザ・ライズ、残り400mから）。高さ1mは仮の値（目安あり） | [1](https://www.jra.go.jp/keiba/overseas/country/australia/randwick.html) [2](https://www.jairs.jp/contents/courses/au.html) [3](https://en.wikipedia.org/wiki/Randwick_Racecourse) |
 | ローズヒル | 芝 | 周回 | 2048 | 408 | 0.0 | 110・110・110・110 | 1200・1400・1450・1500 | 四角い右回り（目安あり） | [1](https://www.jairs.jp/contents/courses/au.html) [2](https://en.wikipedia.org/wiki/Rosehill_Gardens_Racecourse) |
